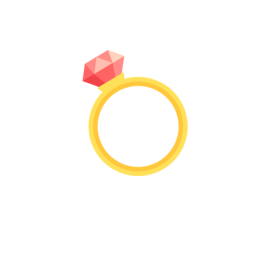
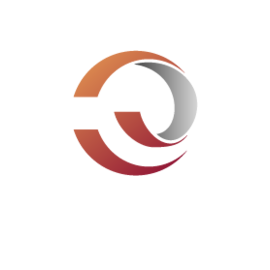
Сменил логотип и фавикон

Changed region(s): [[0.2667, 0.1778, 0.7407, 0.6519]]

diff --git a/app/assets/stylesheets/store/style.scss b/app/assets/stylesheets/store/style.scss
@@ -43,7 +43,7 @@ main {flex: 1 0 auto;}
 .cd-main-header nav {
     height: 30px;
     line-height: 30px;
-    background: #ff4a46;
+    background: #8F1335;
     box-shadow: none;
 }
 .cd-main-header nav i.location-icon {
@@ -253,7 +253,7 @@ main .container nav {
 .logo-slider {
     width: 100%;
     overflow: hidden;
-    background: #ff4a46 ;
+    background: #8F1335 ;
     margin-bottom: 40px;
     box-shadow: 0 1px 3px rgba(0,0,0,0.12), 0 1px 2px rgba(0,0,0,0.24);
 }
@@ -362,6 +362,7 @@ main .container nav {
     background: image_url('bg-1.jpg') no-repeat top center black;
     background-size: auto 100%;
 }
+//image_url('bg-1.jpg')
 .catalog-watch {
     background: image_url('bg-2.jpg') no-repeat top center;
     background-size: auto 100%;
@@ -370,11 +371,11 @@ main .container nav {
 .catalog-banner_in {
     height: auto;
     min-height: 180px;
-    background: -moz-linear-gradient(32deg, rgb(255, 74, 70) 0%, rgba(103, 33, 33, 0) 75%);
-    background: -webkit-linear-gradient(32deg, rgb(255, 74, 70) 0%, rgba(103, 33, 33, 0) 75%);
-    background: -o-linear-gradient(32deg, rgb(255, 74, 70) 0%, rgba(103, 33, 33, 0) 75%);
-    background: -ms-linear-gradient(32deg, rgb(255, 74, 70) 0%, rgba(103, 33, 33, 0) 75%);
-    background: linear-gradient(32deg, rgb(255, 74, 70) 0%, rgba(103, 33, 33, 0) 75%);
+    background: -moz-linear-gradient(32deg, rgb(143, 19, 53) 0%, rgba(103, 33, 33, 0) 75%);
+    background: -webkit-linear-gradient(32deg, rgb(143, 19, 53) 0%, rgba(103, 33, 33, 0) 75%);
+    background: -o-linear-gradient(32deg, rgb(143, 19, 53) 0%, rgba(103, 33, 33, 0) 75%);
+    background: -ms-linear-gradient(32deg, rgb(143, 19, 53) 0%, rgba(103, 33, 33, 0) 75%);
+    background: linear-gradient(32deg, rgb(143, 19, 53) 0%, rgba(103, 33, 33, 0) 75%);
     overflow: hidden;
 }
 .catalog-banner_in .breadcrumb {
@@ -2566,7 +2567,7 @@ input:-ms-input-placeholder      {color:#757575;}
 
 footer.page-footer {
     color: #ffffff;
-    background-color: #de332f !important;
+    background-color: #8F1335;
 }
 footer.page-footer h6 {
     font-size: 0.9375rem;
@@ -2680,13 +2681,6 @@ footer.page-footer ul li {
     margin-bottom: 0.625rem;
 }
 
-
-.progress .indeterminate {
-    background-color: #e53935;
-}
-.progress {
-    background-color: transparent;
-}
 
 /* Show default checkbox validation message */
 [type=checkbox]:not(:checked) {

diff --git a/app/assets/stylesheets/store/menu.css b/app/assets/stylesheets/store/menu.css
@@ -129,7 +129,8 @@ input[type="search"]::-webkit-search-results-decoration {
     text-align: center;
   }
   .logo {
-    width: 210px;
+    height: 70px;
+    margin-top: -10px;
   }
 }
 @media only screen and (max-width: 992px) {
@@ -143,15 +144,12 @@ input[type="search"]::-webkit-search-results-decoration {
   }
 }
 @media only screen and (max-width: 600px) {
-  .logo {
-    height: 46px;
-  }
   .logo img:first-child {
-    margin-right: 0px;
-    margin-left: 0px;
+      width: 100%;
+    margin-right: 0;
+    margin-left: 0;
     margin-top: 2px;
     padding: 4px 0;
-/*    transform: rotate(-33deg);*/
   }
 }
 
